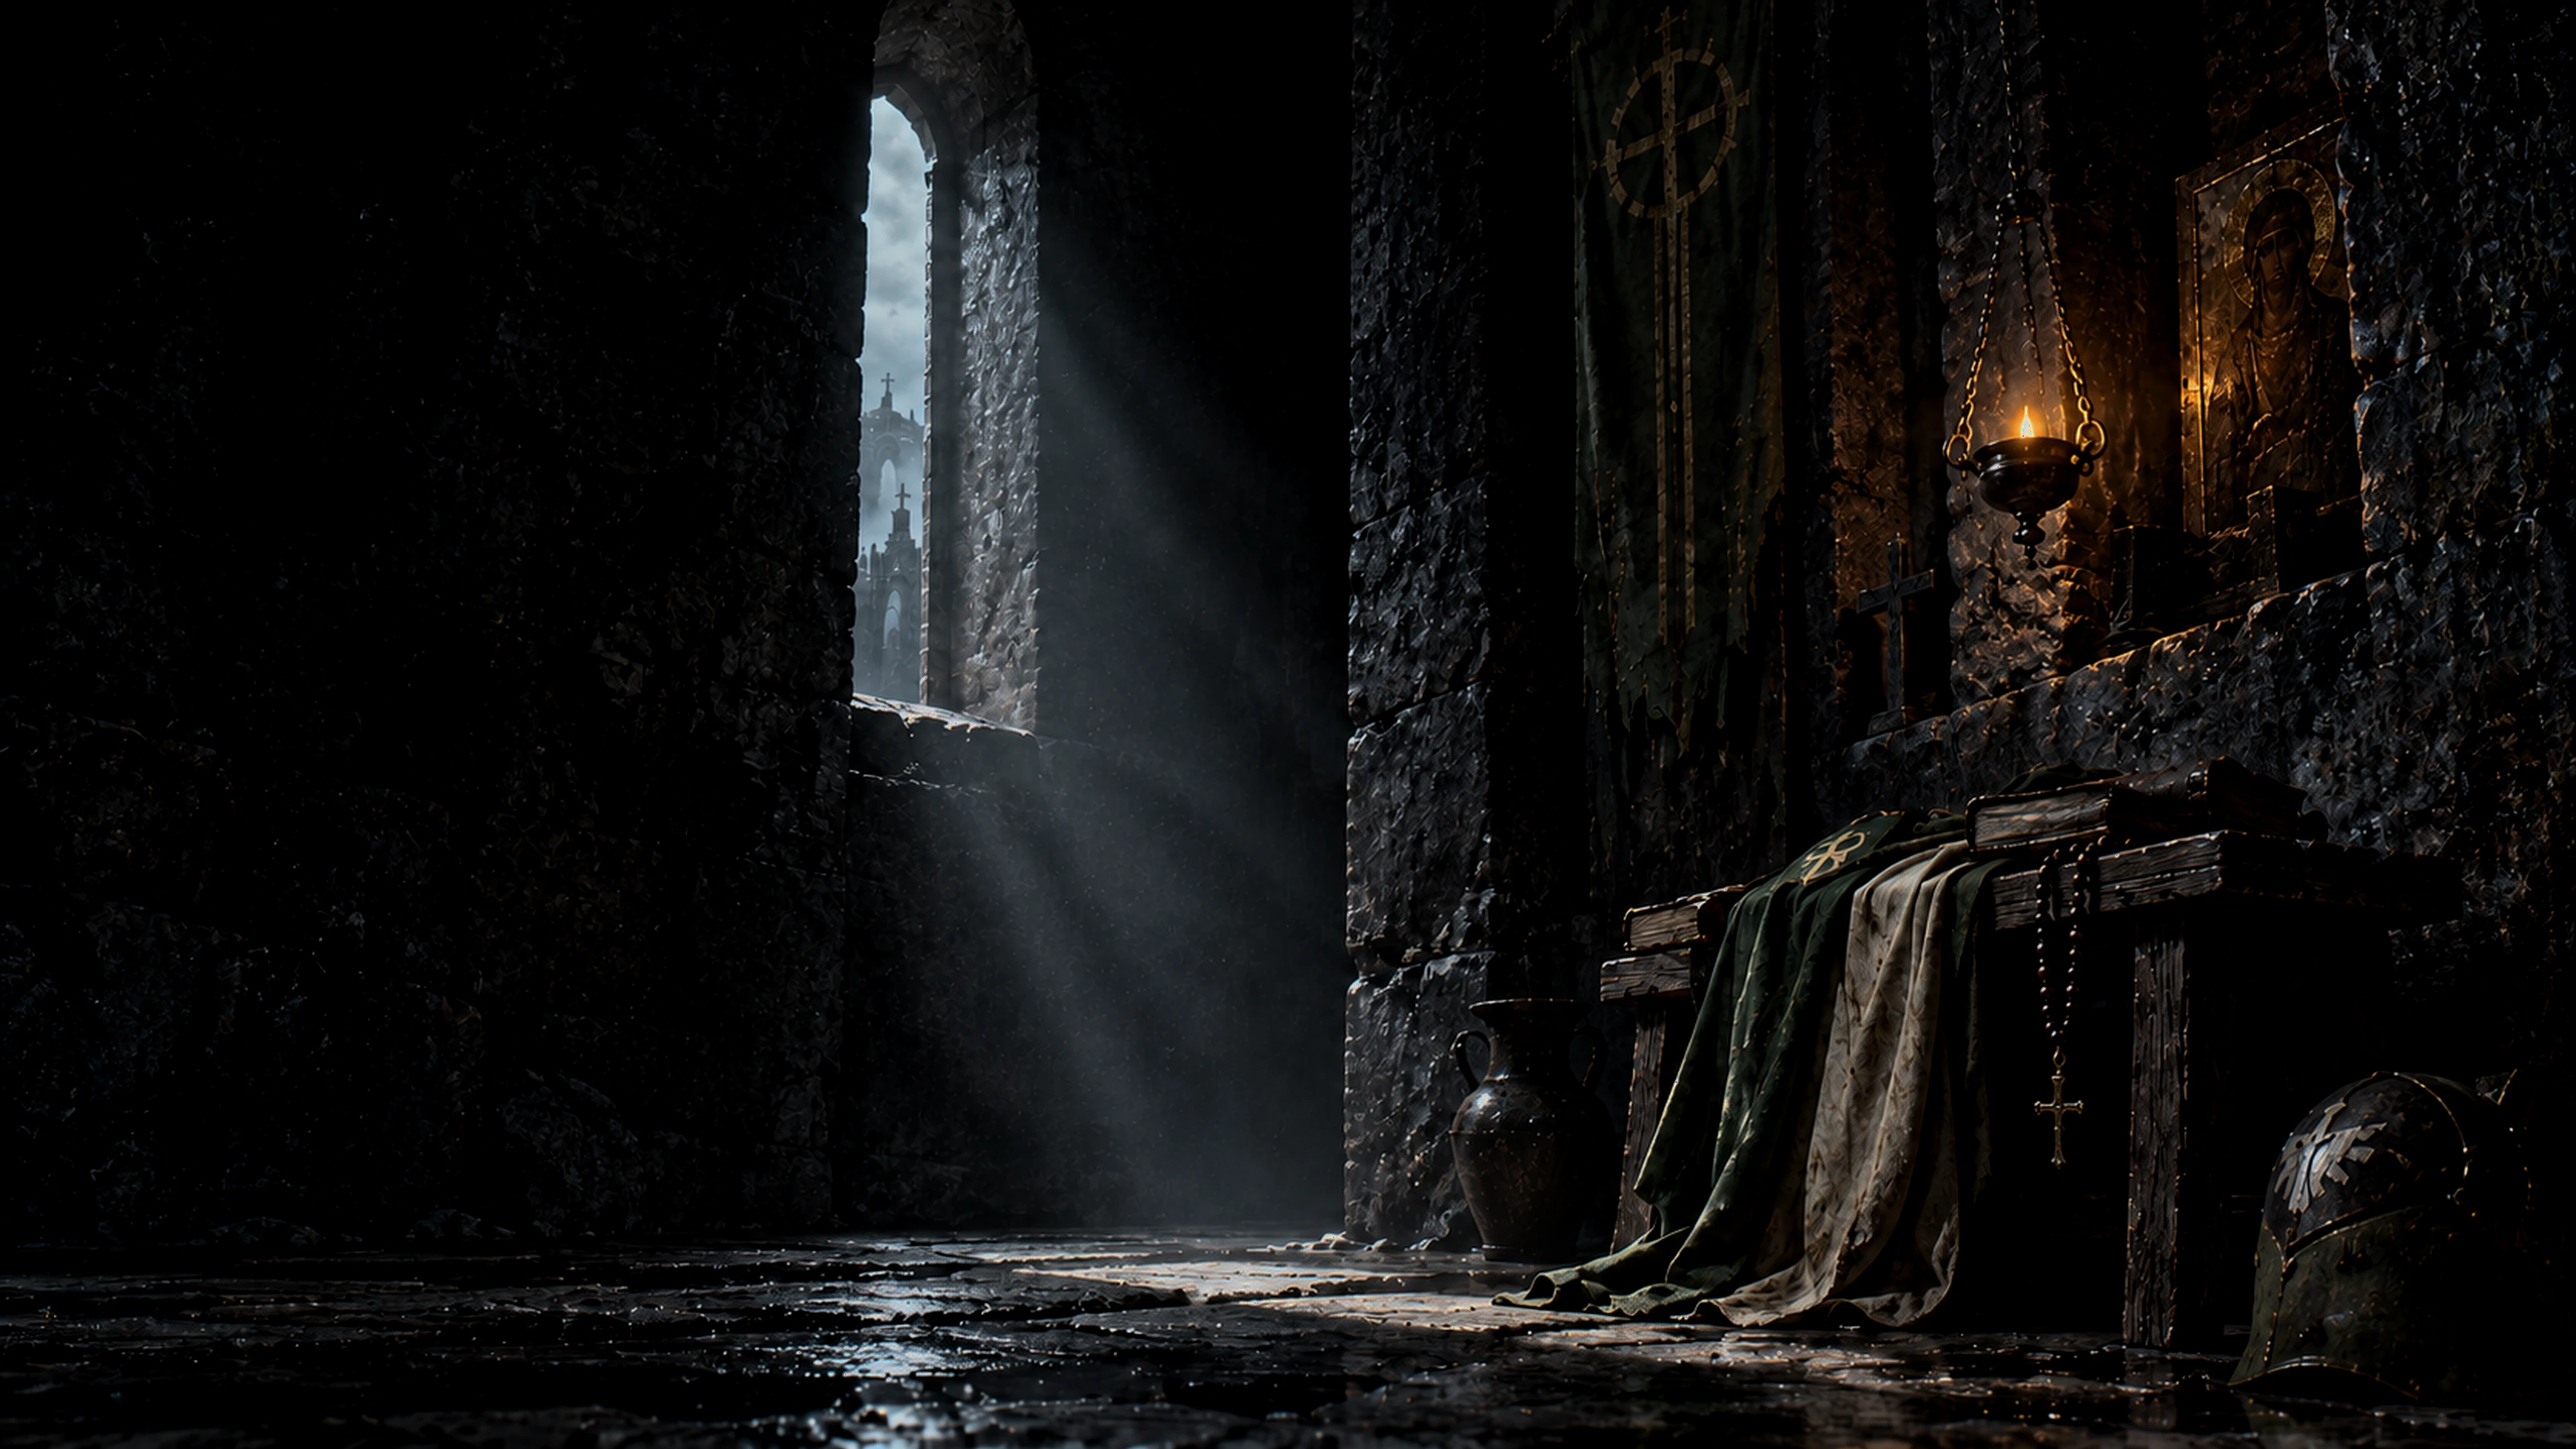
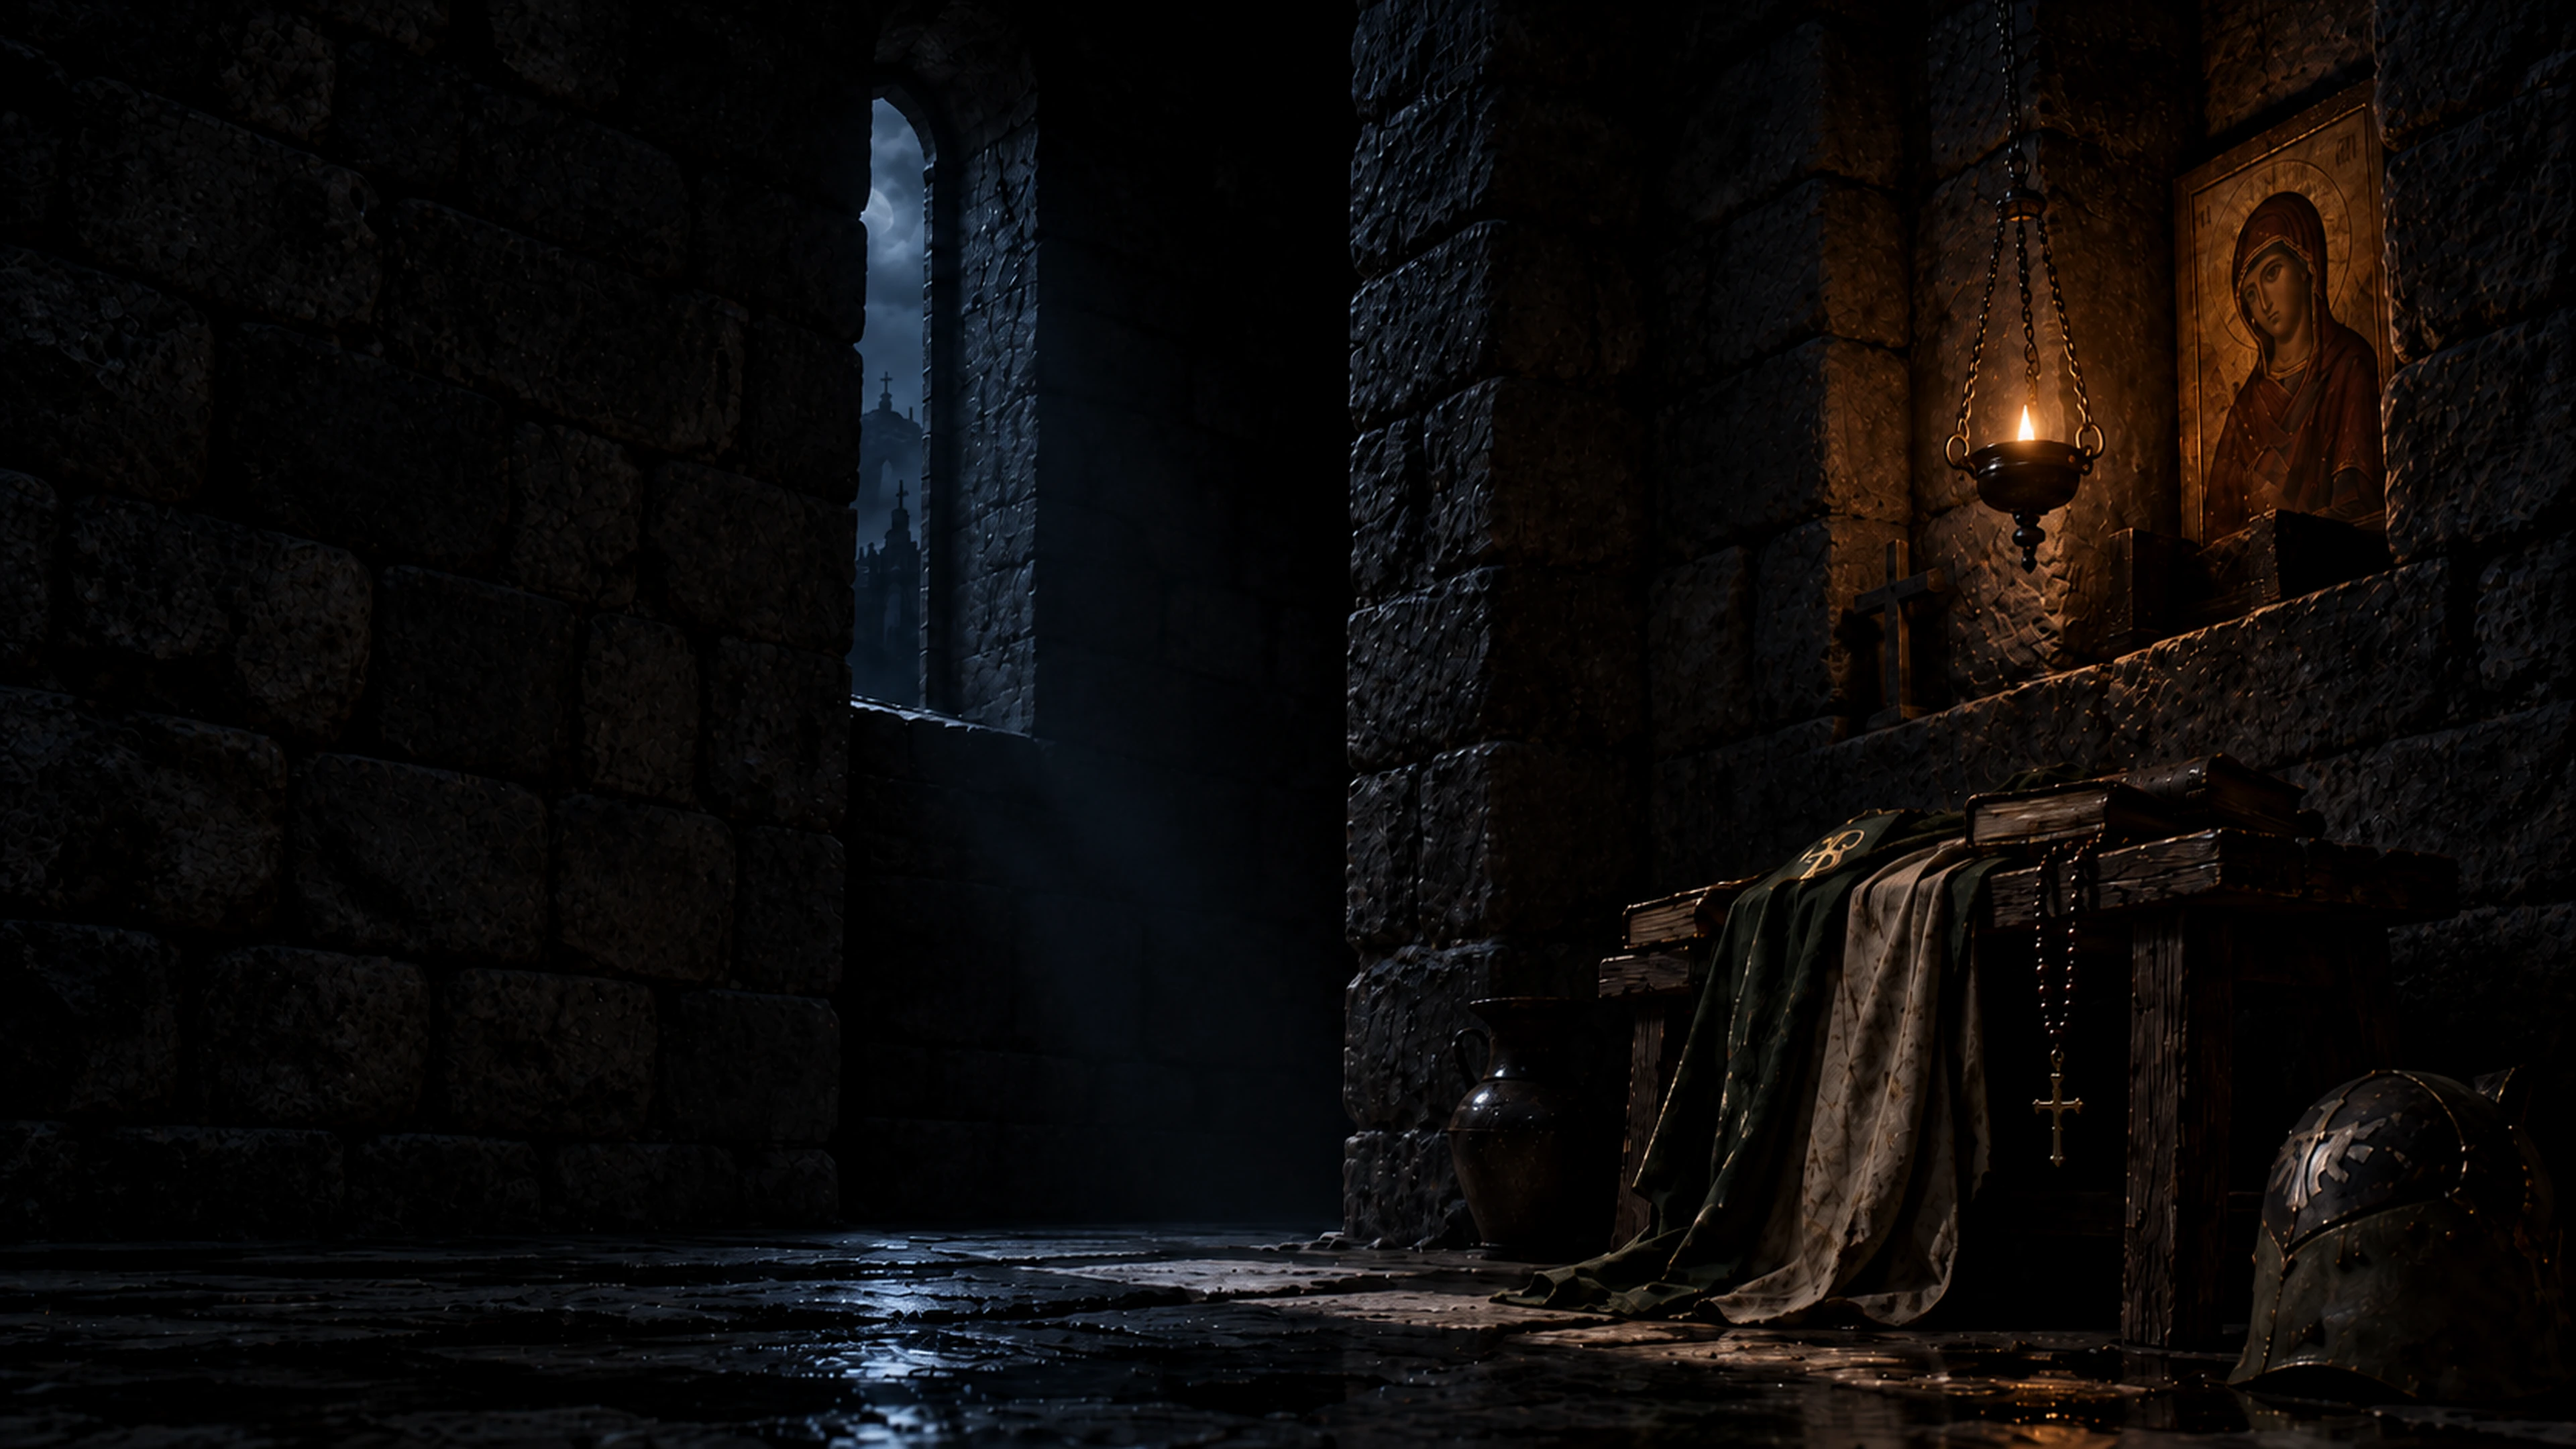
The Cell is graded from Parker's 8K master instead of a 1672x941 render
backgrounds/2-the-cell.webp is now rendered from art/the-cell.png, a 7680x4320 master Parker
made on 2026-10-16 (PRAUS_Monastic_Cell_8K_7680x4320_FINAL.png), downscaled to 3840x2160. The
other three wallpapers are unchanged.

The first cell was a 1672x941 render upscaled 2.3x, so the shipped 4K wallpaper carried no more
detail than its source. The new master is a fresh render, not an upscale of the old one: darker
(mean luma 5.0% against 10.4%), no window shaft or banner, and a larger, clearer icon.

Because it arrives dark, its grade is light: brightness 100%, saturation 95%, black point 1%,
landing at 4.2% mean luma, between the lamp and the knight. The 8K master is kept as the source
in art/ (16.9 MB) so the grade can be redone at any size; art/README.md carries the exact command,
which reproduces the committed file.

diff --git a/art/README.md b/art/README.md
@@ -5,18 +5,18 @@ Sources for the four wallpapers in `backgrounds/`.
 | Wallpaper | Source | Made |
 |---|---|---|
 | `1-the-meek-warrior.webp` | `the-meek-warrior.png` (1672×941) | Parker Brown, ChatGPT, 2026-10-16 |
-| `2-the-cell.webp` | `the-cell.png` (1672×941) | Parker Brown, ChatGPT, 2026-10-16 |
+| `2-the-cell.webp` | `the-cell.png` (7680×4320 master) | Parker Brown, ChatGPT, 2026-10-16 |
 | `3-the-lamp.webp` | `the-lamp.png` (1672×941) | Parker Brown, ChatGPT, 2026-10-16 |
 | `4-praus.webp` | `praus.svg` | Set in Noto Serif Display Light, bronze `#A18C60` on black |
 
 ## The grade
 
-Each painting is upscaled with Lanczos to fill 3840×2160, then brightness and saturation are scaled and the black point lifted, so the shadows land on the palette's true black. The cell is the brightest source and gets the firmest grade.
+Each painting is resized with Lanczos to fill 3840×2160 (the knight and the lamp upscaled from 1672×941, the cell downscaled from its 8K master), then brightness and saturation are scaled and the black point lifted, so the shadows land on the palette's true black.
 
 | Wallpaper | Brightness | Saturation | Black point | Mean luma, source → graded |
 |---|---|---|---|---|
 | The Meek Warrior | 96% | 90% | 2% | 7.1% → 5.8% |
-| The Cell | 84% | 88% | 4% | 10.4% → 6.2% |
+| The Cell | 100% | 95% | 1% | 5.0% → 4.2% |
 | The Lamp | 100% | 94% | 1% | 3.1% → 2.5% |
 
 From the repository root, with ImageMagick 7:
@@ -25,7 +25,7 @@ From the repository root, with ImageMagick 7:
 magick art/the-meek-warrior.png -filter Lanczos -resize 3840x2160^ -gravity center -extent 3840x2160 -modulate 96,90,100 -level 2%,100% -strip -quality 90 -define webp:method=6 backgrounds/1-the-meek-warrior.webp
 ```
 ```sh
-magick art/the-cell.png -filter Lanczos -resize 3840x2160^ -gravity center -extent 3840x2160 -modulate 84,88,100 -level 4%,100% -strip -quality 90 -define webp:method=6 backgrounds/2-the-cell.webp
+magick art/the-cell.png -filter Lanczos -resize 3840x2160^ -gravity center -extent 3840x2160 -modulate 100,95,100 -level 1%,100% -strip -quality 90 -define webp:method=6 backgrounds/2-the-cell.webp
 ```
 ```sh
 magick art/the-lamp.png -filter Lanczos -resize 3840x2160^ -gravity center -extent 3840x2160 -modulate 100,94,100 -level 1%,100% -strip -quality 90 -define webp:method=6 backgrounds/3-the-lamp.webp

diff --git a/docs/plans/praus-theme/00-status.md b/docs/plans/praus-theme/00-status.md
@@ -40,7 +40,7 @@ How the nine decisions on the plan page landed:
 
 - Contrast on black: linen 13.57, bronze 6.44, sage 6.35, olive 3.14, blood 2.61 (lifted red
   4.61), iron 1.54. Derived terminal colours 4.91–6.82.
-- Mean luma source → graded: knight 7.1 → 5.8, cell 10.4 → 6.2, lamp 3.1 → 2.5, word 0.35.
+- Mean luma source → graded: knight 7.1 → 5.8, cell 5.0 → 4.2 (8K master, 2026-10-16 06:18), lamp 3.1 → 2.5, word 0.35.
   Backgrounds total 1.1 MB as WebP. Lamp smoke checked for banding at 3× stretch: none.
 - Target: Omarchy 4.0.4. The wallpaper plugin is still-image only, `PreserveAspectCrop`.
 - Registry rules read live 2026-10-16 (`omacom/omarchy-theme-registry`, `validate.ts`): the

diff --git a/README.md b/README.md
@@ -43,7 +43,7 @@ Dried blood started as `#813B35`, which measures 2.61:1 on black and cannot be r
 3. **The Lamp**
 4. **ΠΡΑΫΣ** — the word, set in Noto Serif Display
 
-The three paintings were made for this theme by Parker Brown with ChatGPT in October 2026, then graded onto the palette's black and upscaled to 3840×2160. The originals, the type source and the exact grade are in [`art/`](art/).
+The three paintings were made for this theme by Parker Brown with ChatGPT in October 2026, then graded onto the palette's black at 3840×2160; The Cell comes from an 8K master. The originals, the type source and the exact grade are in [`art/`](art/).
 
 ## License
 
